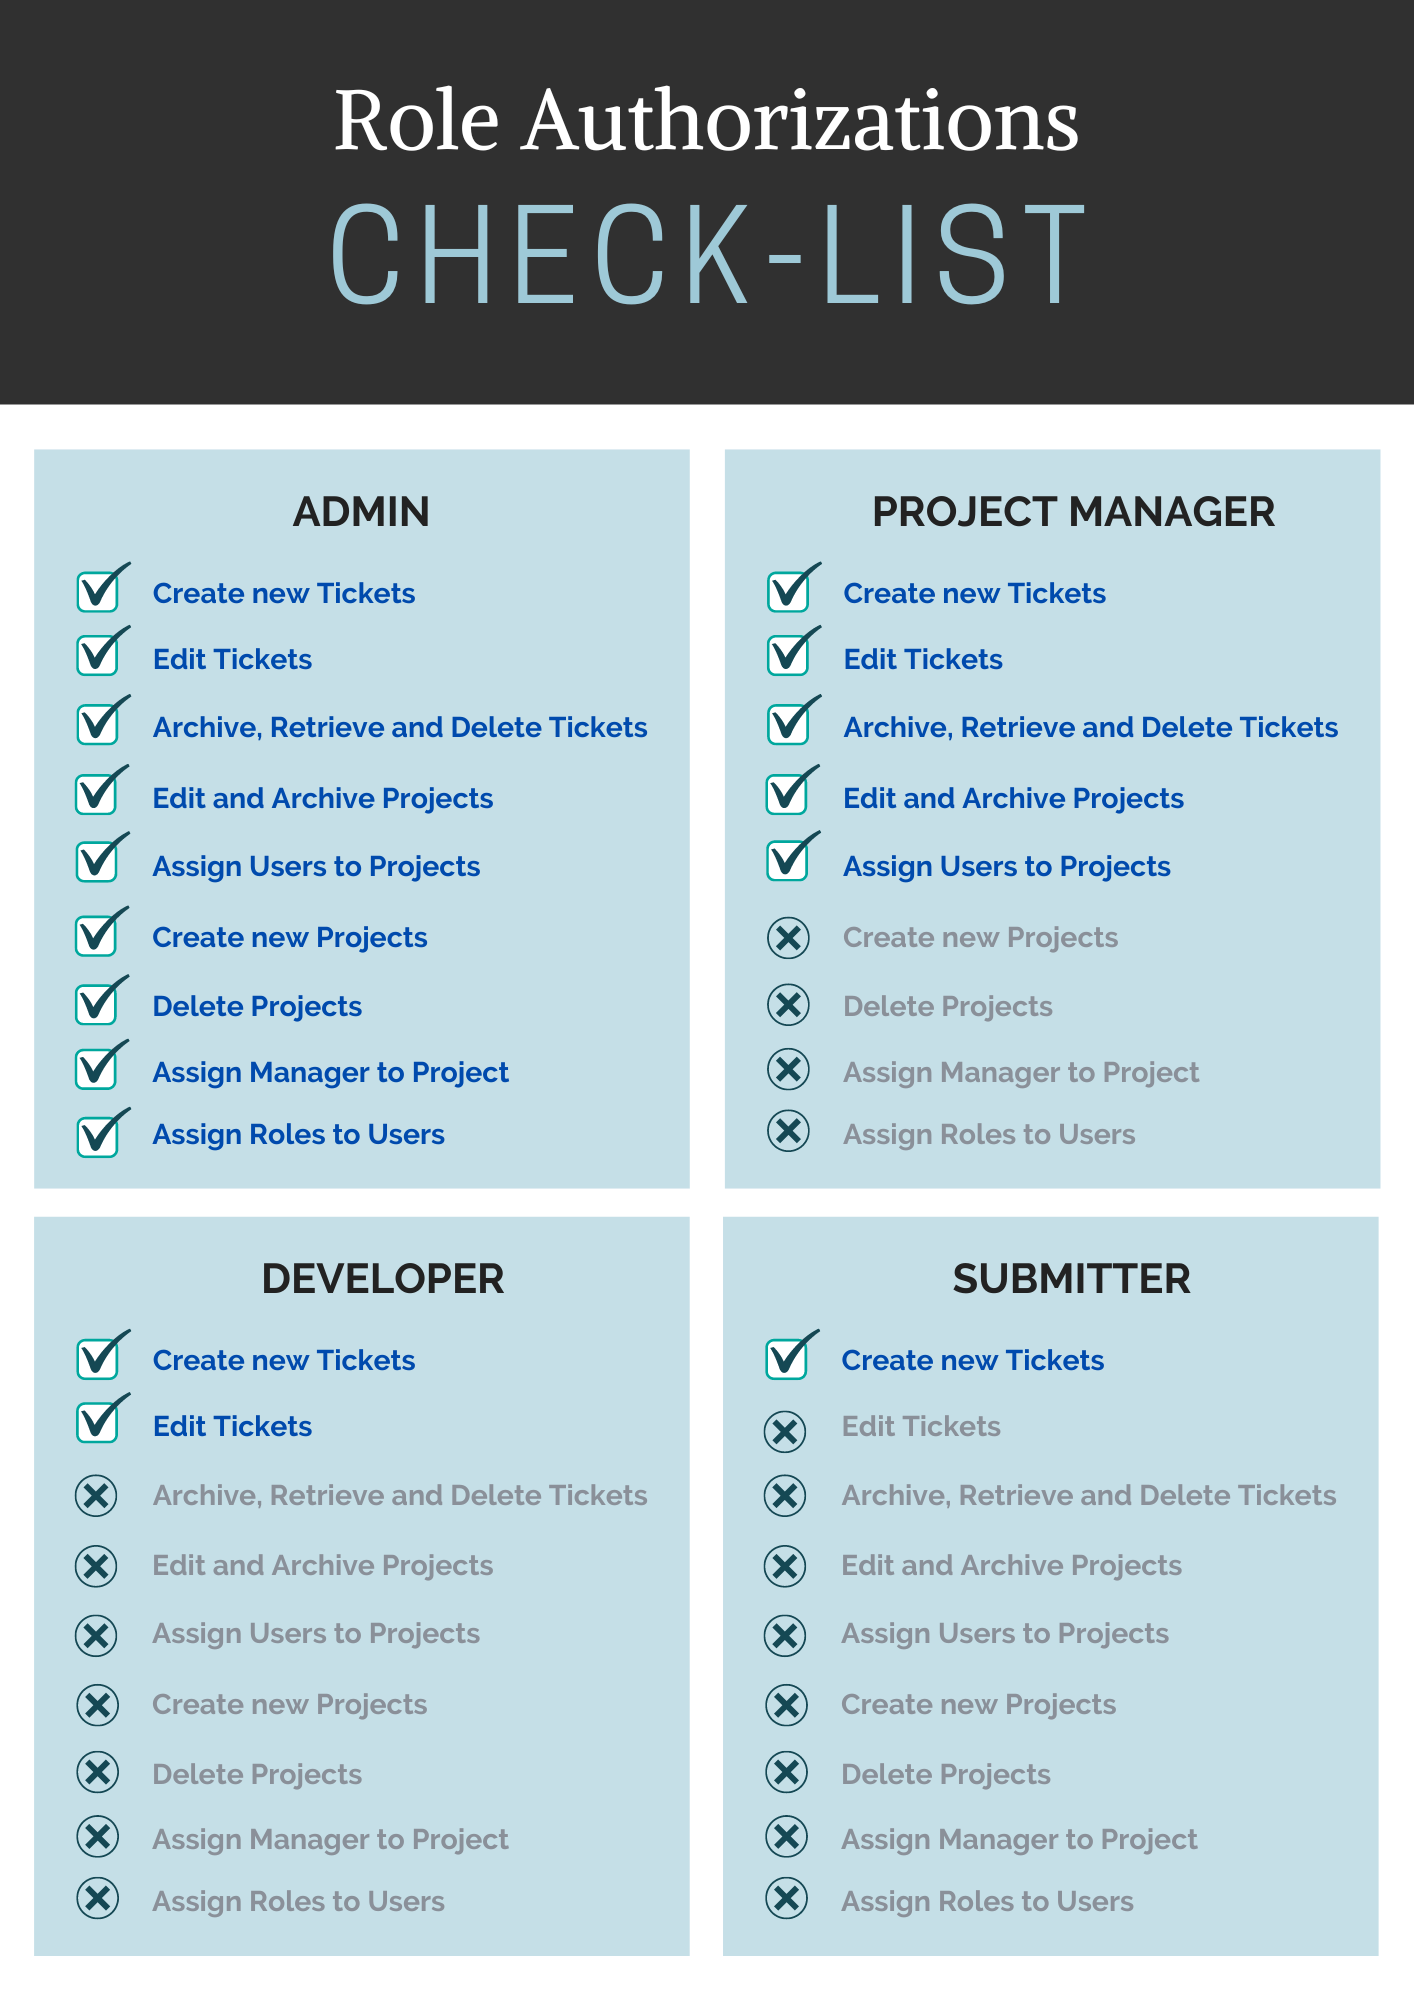
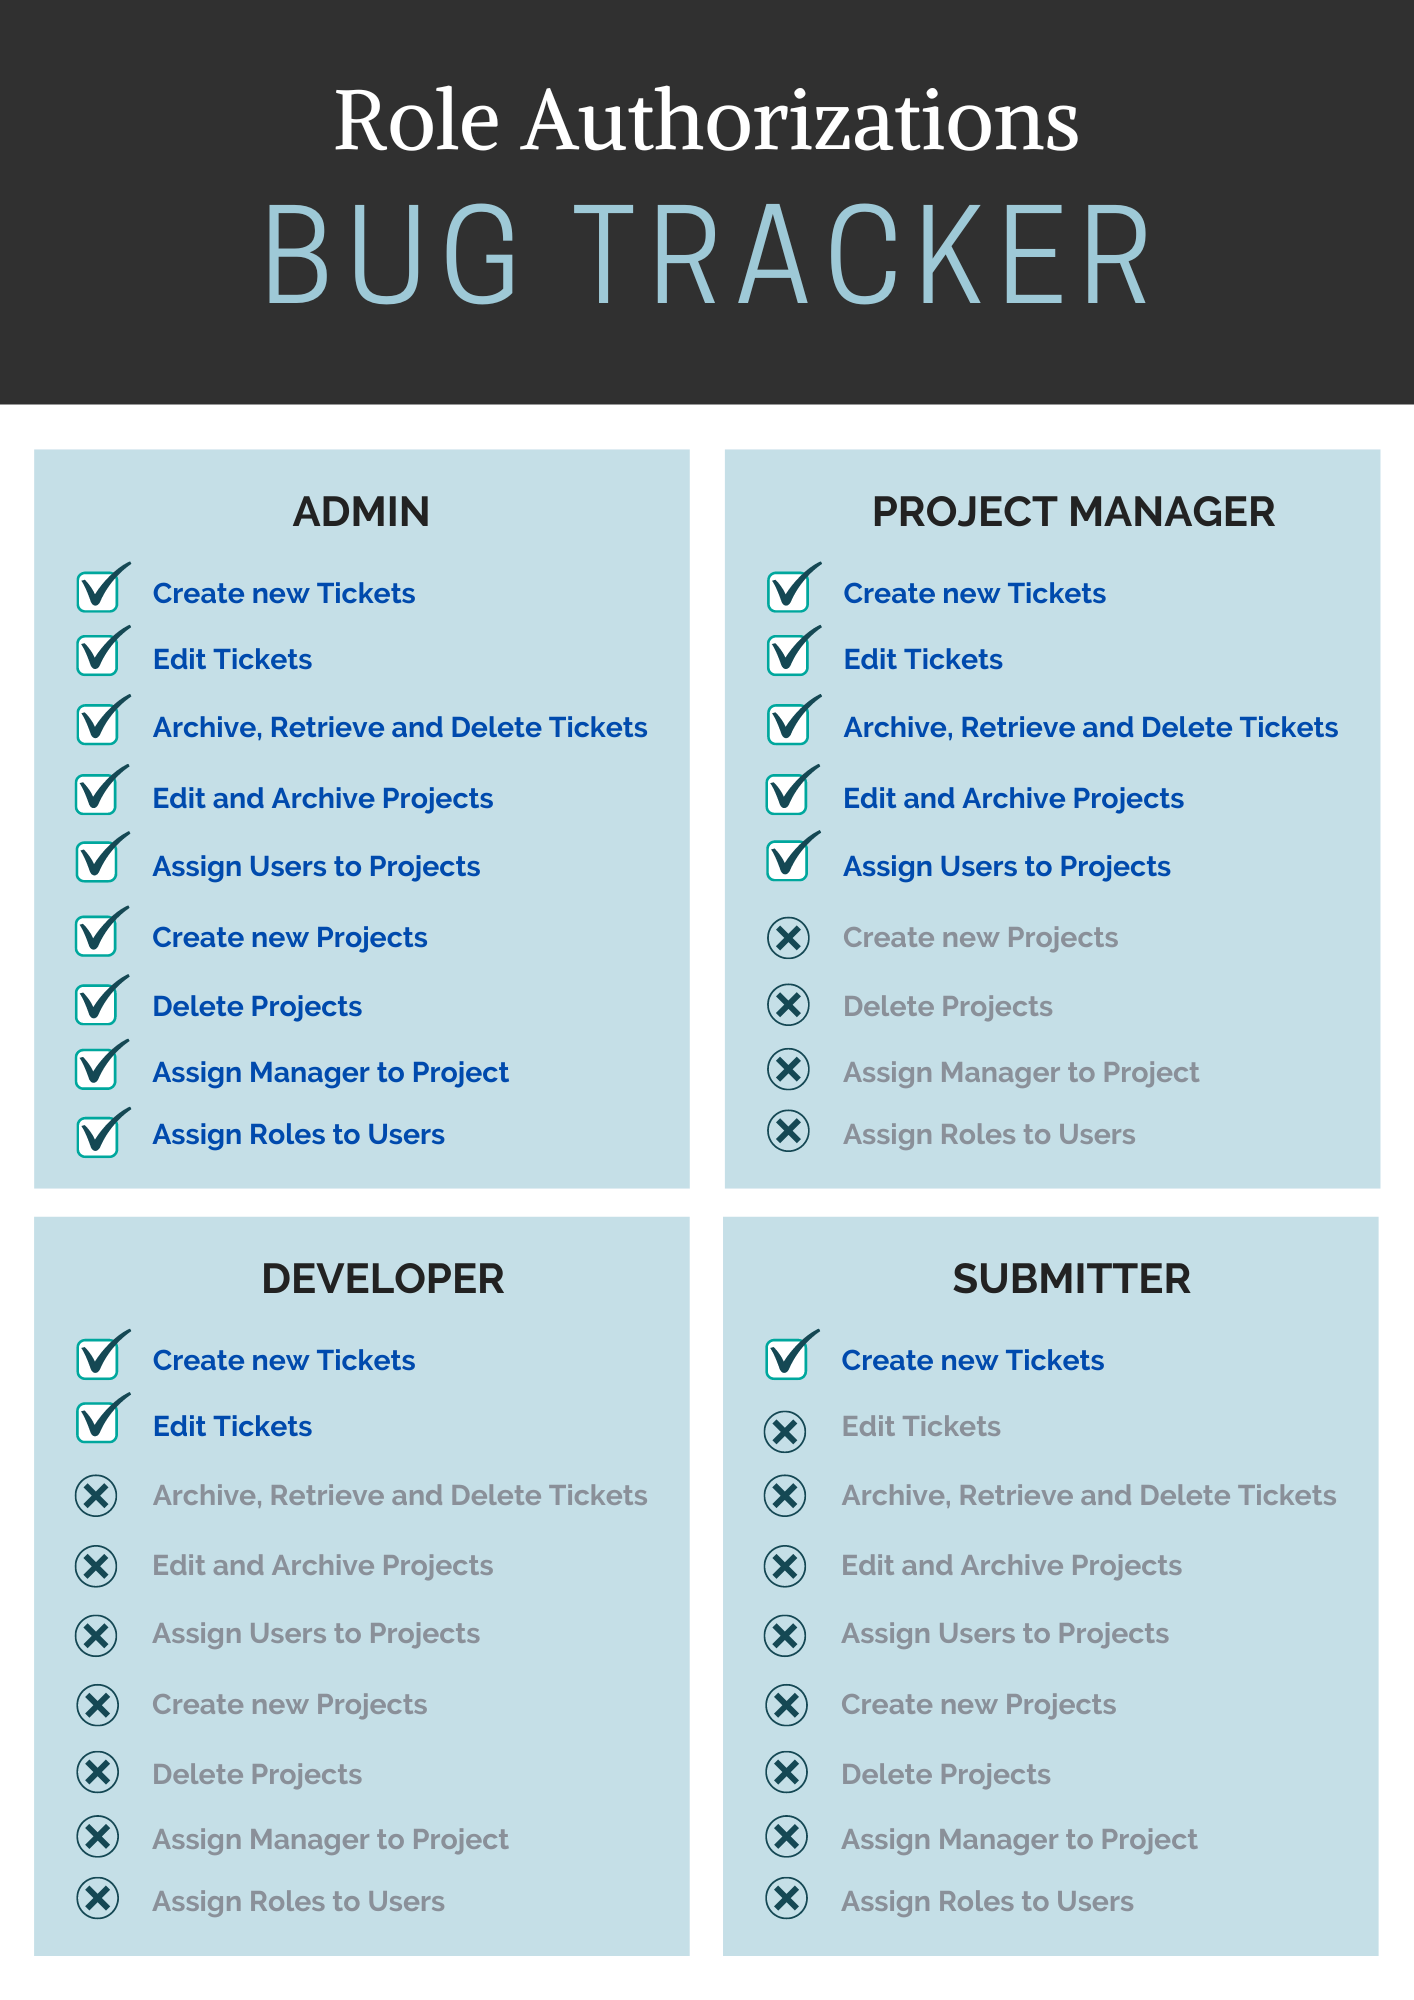
README edited v6

Changed region(s): [[0.1867, 0.093, 0.8091, 0.155]]

diff --git a/README.md b/README.md
@@ -36,7 +36,7 @@ The app contains the following features:
 - Live Search in all Tables for the informations
 - Change the Theme of the App Light/Dark options
 
-## Scenario of Data Flow and User Roles
+## Scenario: Authorizations and User Roles
 
 <img src="public/images/Role Authorizations_Schema.png" width="500" height="700">
 
